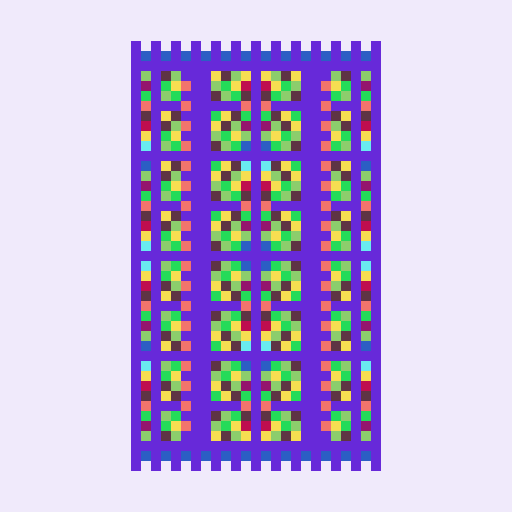
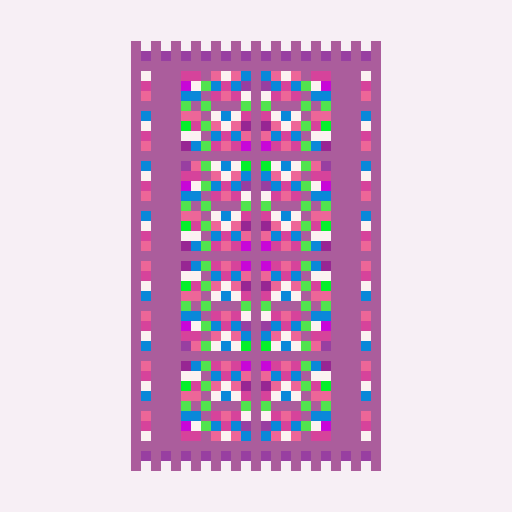
yarn nft_mint updated

diff --git a/ts/cluster1/nft_metadata.ts b/ts/cluster1/nft_metadata.ts
@@ -17,7 +17,7 @@ umi.use(signerIdentity(signer));
         // Follow this JSON structure
         // https://docs.metaplex.com/programs/token-metadata/changelog/v1.0#json-structure
 
-        const image = "https://arweave.net/MUKmNh5SqRhnDma2xbXDfGnqQoQbjGLWzc1tZf7go3s";
+        const image = "https://arweave.net/wRlHOCgZUVGkwtGEAeMSrD4Ppt8IQKNVMQcmnDnan0U";
         const metadata = {
             name: "Arifs Rug",
             symbol: "AR",
@@ -31,13 +31,13 @@ umi.use(signerIdentity(signer));
                 files: [
                     {
                         type: "image/png",
-                        uri: "?"
+                        uri: image,
                     },
                 ]
             },
             creators: []
         };
-        const myUri = await umi.uploader.uploadJson([metadata]);
+        const myUri = await umi.uploader.uploadJson(metadata);
         console.log("Your image URI: ", myUri);
     }
     catch(error) {

diff --git a/ts/cluster1/nft_mint.ts b/ts/cluster1/nft_mint.ts
@@ -20,8 +20,8 @@ const mint = generateSigner(umi);
         mint,
         name: "Arifs Rug",
         symbol: "AR",
-        uri: "https://arweave.net/XF7r2wdene7ni_z_YDWe7QEAAMBfADgzzTxMhNvvq2Y",
-        sellerFeeBasisPoints: percentAmount(1),
+        uri: "https://arweave.net/SG5YnfbczkjvYf5Av2T427oOcRe2mQt6G03t7ciqyQc",
+        sellerFeeBasisPoints: percentAmount(7),
     });
     let result = await tx.sendAndConfirm(umi);
     const signature = base58.encode(result.signature);

diff --git a/README.md b/README.md
@@ -13,11 +13,12 @@
 	Your transfer txid: 2ii2xZwAQwZf3YKYSeZdB6xXCnvh6JuTvgaiZa2qkHe7TJfLdpA5DefGJrxdBmoz5jthRUTSvvkChUKYdmBgpxw
 
 * yarn nft_image:<br/>
-    Your image URI:  https://arweave.net/MUKmNh5SqRhnDma2xbXDfGnqQoQbjGLWzc1tZf7go3s
+    Your image URI:  https://arweave.net/wRlHOCgZUVGkwtGEAeMSrD4Ppt8IQKNVMQcmnDnan0U
 
 * yarn nft_metadata:<br/>
-    Your image URI:  https://arweave.net/XF7r2wdene7ni_z_YDWe7QEAAMBfADgzzTxMhNvvq2Y
+    Your image URI:  https://arweave.net/SG5YnfbczkjvYf5Av2T427oOcRe2mQt6G03t7ciqyQc
 
 * yarn nft_mint:<br/>
-    Succesfully Minted! Check out your TX here: https://explorer.solana.com/tx/22C6BJLwixh8dVWAZUS8UPpKBQnktjEiYuiAN2eGDJDxZozU9RsqK9ENc9Zex4qLsy3TsPLHXWddvtQH7Zu5c5Au?cluster=devnet<br/>
-    Mint Address:  4tmf9AB57TxVxD5urBcNqotWwciNs1bSHaiEz42azVwq
+    Succesfully Minted! Check out your TX here:
+    https://explorer.solana.com/tx/3XLTpGBKfAhJ7Di6tDAEwJ4QaHPgzGkTZY8ZMQHLcc2g9dGZG86WyPsHnwXmwHfb5Z2AtRndbhJv7wF7Xsqv3DF7?cluster=devnet<br/>
+    Mint Address:  Bhi9YHbHmHH3khmfEPyFnUaRY2acKAowwpjp5fU6qzeX 
